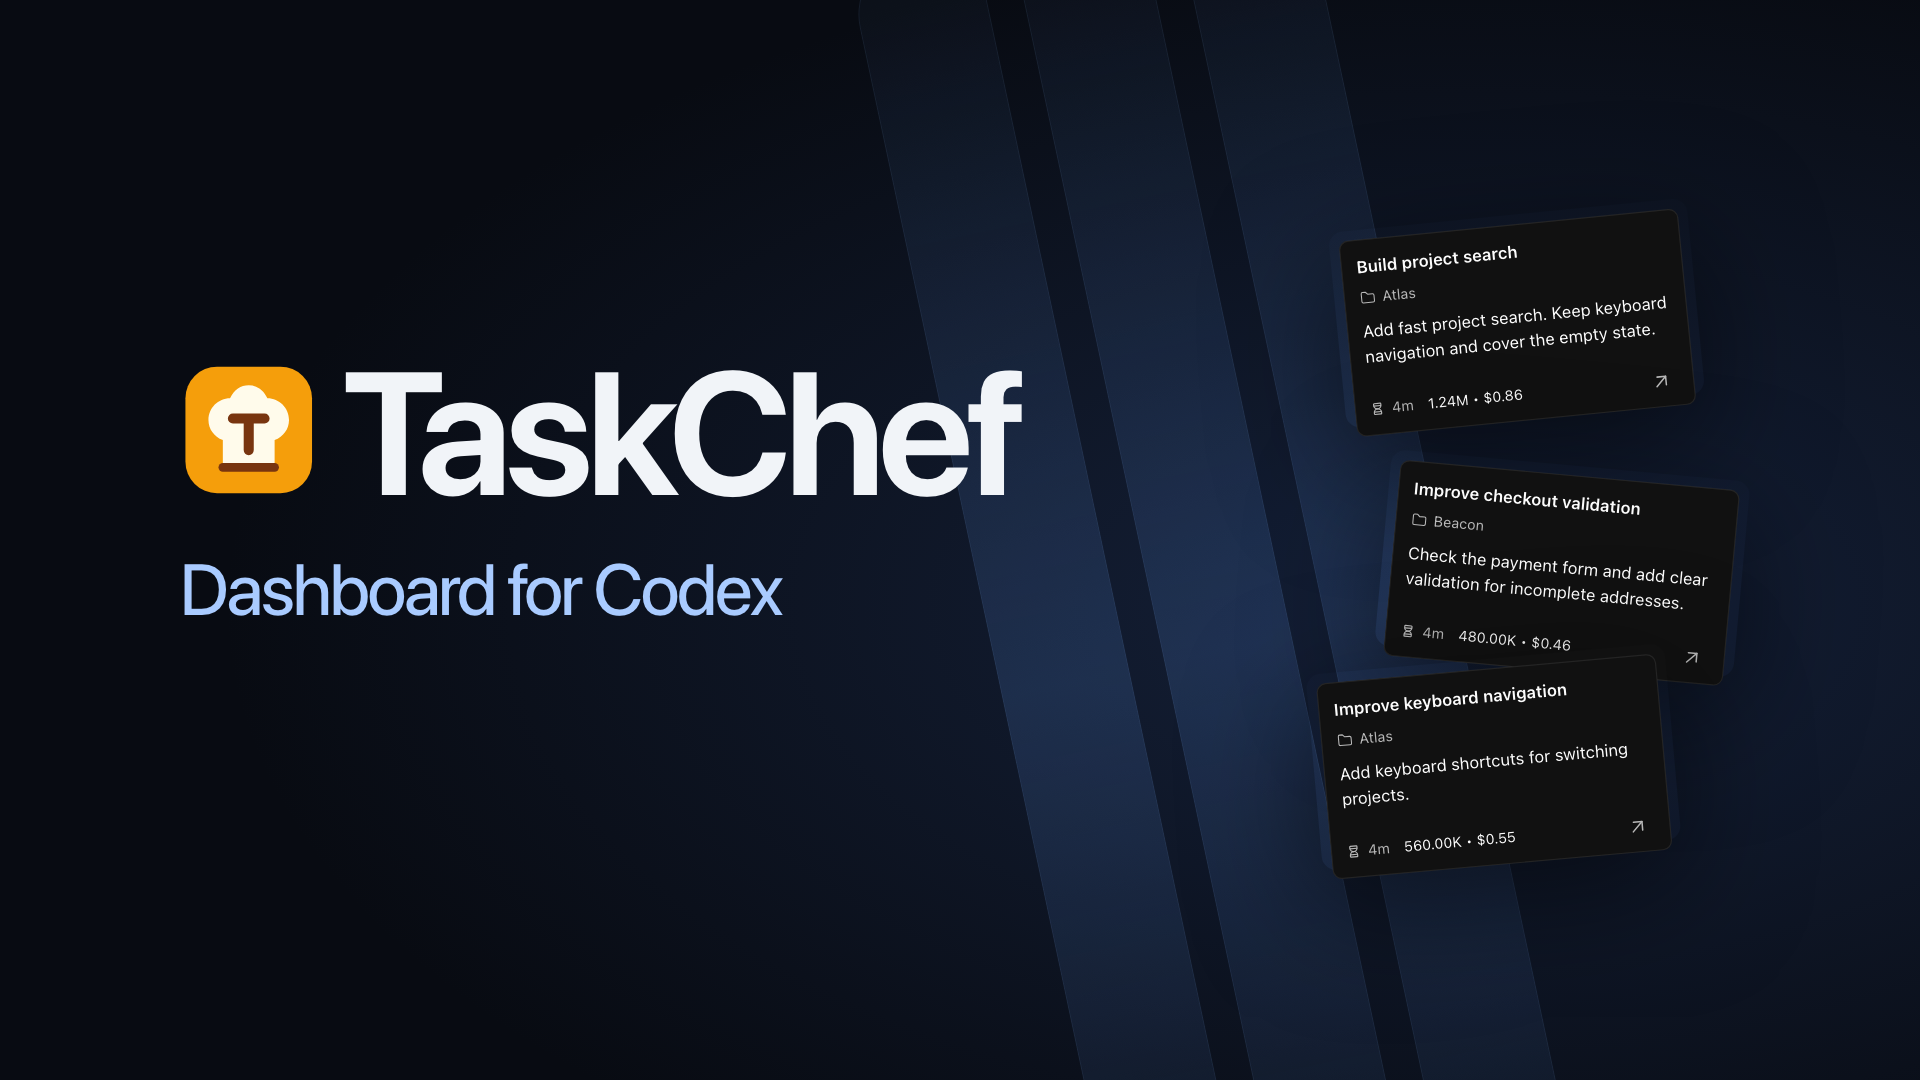
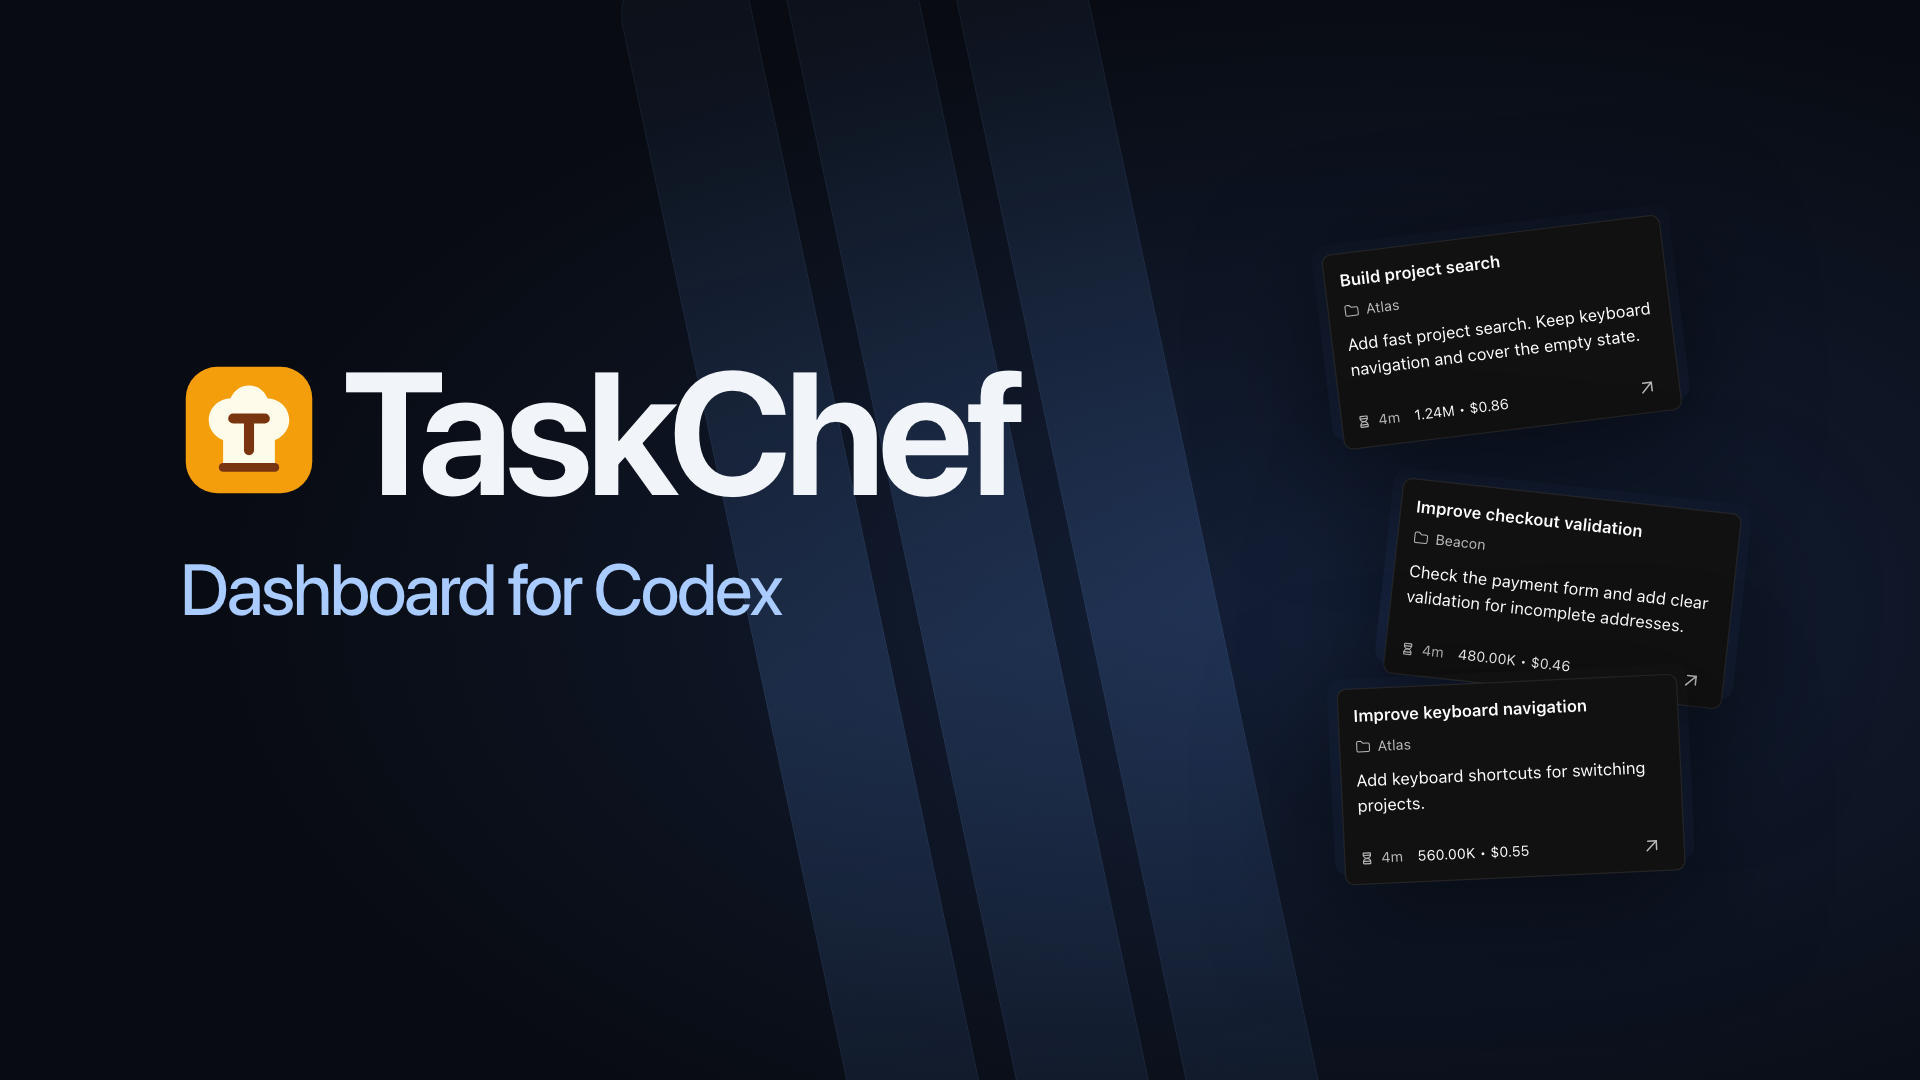
chore(video): show cover immediately and hold chapter titles

Changed region(s): [[0.3438, 0.2139, 0.9062, 0.9167]]

diff --git a/video/OpeningStudy.tsx b/video/OpeningStudy.tsx
@@ -9,14 +9,14 @@ const phrase = 240 / 122;
 const ease = Easing.bezier(.16, 1, .3, 1);
 const clamp = { extrapolateLeft: 'clamp', extrapolateRight: 'clamp' } as const;
 
-function FloatingChats({ time, shot }: { time: number; shot: number }) {
+function FloatingChats({ time }: { time: number }) {
   return <div className="opening-floating-chats" inert>
     {[1, 2, 3].map((id, index) => <div key={id} className={`opening-fragment opening-fragment-${id}`} style={{
       top: 235 + index * 225,
       left: 1280 + (index === 1 ? 70 : 0),
       rotate: `${[-7, 5, -4][index] + Math.sin(time * 1.7 + index) * 1.5}deg`,
-      translate: `${Math.sin(time * 1.2 + index) * 18 + (shot === 0 ? 30 : -25)}px ${Math.cos(time * 1.5 + index) * 12}px`,
-      opacity: interpolate(time, [.15 + index * .12, .5 + index * .12], [0, 1], clamp),
+      translate: `${Math.sin(time * 1.2 + index) * 18 + 30}px ${Math.cos(time * 1.5 + index) * 12}px`,
+      opacity: 1,
     }}><ProductBoard phase="running" /></div>)}
   </div>;
 }
@@ -25,19 +25,18 @@ export function OpeningStudy() {
   const frame = useCurrentFrame();
   const { fps } = useVideoConfig();
   const time = frame / fps;
-  const shot = time < phrase ? 0 : time < phrase * 2 ? 1 : 2;
-  const local = frame - shot * phrase * fps;
-  const boardStart = phrase * 2;
+  const intro = time < phrase;
+  const boardStart = phrase;
   // Title → full board → Running, then one continuous pull-back into Review.
-  const cameraTimes = [boardStart, 4.75, 6.05, 6.65, 7.5, 8.6, 9.1, 9.65, 10.8];
+  const cameraTimes = [boardStart, 4, 4.75, 5.5, 6.05, 6.7, 7.7, 9.4, 10.1, 11.2];
   const cameraEase = { ...clamp, easing: Easing.bezier(.65, 0, .2, 1) };
-  const scale = interpolate(time, cameraTimes, [.62, 1.22, 1.22, 3, 3, .62, .62, 2.4, 2.4], cameraEase);
-  const x = interpolate(time, cameraTimes, [1050, 179, 179, -470, -470, 1050, 1050, -575, -575], cameraEase);
-  const y = interpolate(time, cameraTimes, [320, 240, 240, 30, 30, 320, 320, 80, 80], cameraEase);
-  const review = time >= 9.65;
-  const move = interpolate(time, [9.65, 10.25], [0, 1], { ...clamp, easing: ease });
-  const nextTitle = time >= 8.1;
-  const titleTime = time - (nextTitle ? 8.1 : boardStart);
+  const scale = interpolate(time, cameraTimes, [.62, .62, 1.22, 1.22, 3, 3, .62, .62, 2.4, 2.4], cameraEase);
+  const x = interpolate(time, cameraTimes, [1050, 1050, 179, 179, -470, -470, 1050, 1050, -575, -575], cameraEase);
+  const y = interpolate(time, cameraTimes, [320, 320, 240, 240, 30, 30, 320, 320, 80, 80], cameraEase);
+  const review = time >= 10.1;
+  const move = interpolate(time, [10.1, 10.7], [0, 1], { ...clamp, easing: ease });
+  const nextTitle = time >= 7.45;
+  const titleTime = time - (nextTitle ? 7.45 : boardStart);
   return <AbsoluteFill
     className="film opening-study"
     style={themeVariables(visualTheme('codex', 'dark'), 'dark') as CSSProperties}
@@ -46,28 +45,26 @@ export function OpeningStudy() {
       name="Tech House vibes — Mixkit"
       src={staticFile('tech-house-vibes.mp3')}
       trimBefore={Math.round(1.52 * fps)}
-      durationInFrames={Math.round(10.8 * fps)}
+      durationInFrames={Math.round(11.2 * fps)}
       premountFor={fps}
-      volume={interpolate(frame, [0, .1 * fps, 10.1 * fps, 10.8 * fps], [0, .8, .8, 0], clamp)}
+      volume={interpolate(frame, [0, .1 * fps, 10.5 * fps, 11.2 * fps], [0, .8, .8, 0], clamp)}
     />
     <div className="opening-halo" style={{ translate: `${Math.sin(time * .7) * 90}px ${Math.cos(time * .5) * 35}px`, scale: 1 + Math.sin(time * .8) * .08 }} />
-    {shot !== 0 && <div className="opening-brand"><Img src={staticFile('taskchef-dark.svg')} alt="" />TaskChef <span>Dashboard for Codex</span></div>}
-    {shot < 2 && <>
-      <div className="opening-type" key={shot} style={{ opacity: interpolate(local, [0, .12 * fps, (phrase - .12) * fps, phrase * fps], [0, 1, 1, 0], clamp),
-        translate: `0 ${interpolate(local, [0, .45 * fps], [80, 0], { ...clamp, easing: ease })}px`,
-        scale: interpolate(local, [0, phrase * fps], [1.06, 1], { ...clamp, easing: ease }) }}>
-        {shot === 0 ? <div className="opening-identity"><div><Img src={staticFile('taskchef-dark.svg')} alt="" /><span>TaskChef</span></div><p>Dashboard for Codex</p></div> : <>Every project.<br /><span>In view.</span></>}
+    {!intro && <div className="opening-brand"><Img src={staticFile('taskchef-dark.svg')} alt="" />TaskChef <span>Dashboard for Codex</span></div>}
+    {intro && <>
+      <div className="opening-type" style={{ opacity: interpolate(time, [phrase - .15, phrase], [1, 0], clamp) }}>
+        <div className="opening-identity"><div><Img src={staticFile('taskchef-dark.svg')} alt="" /><span>TaskChef</span></div><p>Dashboard for Codex</p></div>
       </div>
-      <div className="opening-rails" style={{ rotate: `${shot === 0 ? -12 : 12}deg`, translate: `${interpolate(local, [0, phrase * fps], [-240, 160], clamp)}px 0` }}><i /><i /><i /></div>
-      <FloatingChats time={time} shot={shot} />
+      <div className="opening-rails" style={{ rotate: '-12deg', translate: `${interpolate(time, [0, phrase], [-240, 160], clamp)}px 0` }}><i /><i /><i /></div>
+      <FloatingChats time={time} />
     </>}
-    <div className="opening-board-mask" style={{ opacity: shot === 2 ? 1 : 0 }}>
-      <div className="opening-board-stage" inert style={{ left: x, top: y - 220, scale, rotate: `${interpolate(time, [boardStart, 4.75], [-4, 0], { ...clamp, easing: ease })}deg` }}>
+    <div className="opening-board-mask" style={{ opacity: !intro ? 1 : 0 }}>
+      <div className="opening-board-stage" inert style={{ left: x, top: y - 220, scale, rotate: `${interpolate(time, [4, 4.75], [-4, 0], { ...clamp, easing: ease })}deg` }}>
         <ProductBoard phase={review ? 'review' : 'running'} moveProgress={review ? move : undefined} />
       </div>
     </div>
-    {shot === 2 && <div className="opening-section-title" style={{ opacity: interpolate(titleTime, [0, .15, nextTitle ? .65 : .55, 1], [0, 1, 1, 0], clamp),
-      translate: `${interpolate(titleTime, [0, .4, nextTitle ? .65 : .55, 1], [40, 0, 0, -110], { ...clamp, easing: ease })}px 0` }}>
+    {!intro && <div className="opening-section-title" style={{ opacity: interpolate(titleTime, [0, .15, nextTitle ? 1.95 : 2.03, nextTitle ? 2.3 : 2.4], [0, 1, 1, 0], clamp),
+      translate: `${interpolate(titleTime, [0, .4, nextTitle ? 1.95 : 2.03, nextTitle ? 2.3 : 2.4], [40, 0, 0, -110], { ...clamp, easing: ease })}px 0` }}>
       {nextTitle ? <>Ready for<br /><span>review.</span></> : <>Keep every<br />project<br /><span>in view.</span></>}
     </div>}
   </AbsoluteFill>;

diff --git a/video/index.tsx b/video/index.tsx
@@ -20,7 +20,7 @@ for (const [key, value] of Object.entries(themeVariables(visualTheme('codex', 'd
 }
 
 registerRoot(() => <>
-  <Composition id="TaskChefOpening" component={OpeningStudy} durationInFrames={324} fps={30} width={1920} height={1080} />
+  <Composition id="TaskChefOpening" component={OpeningStudy} durationInFrames={336} fps={30} width={1920} height={1080} />
   <Composition id="TaskChefLaunch" component={Launch} durationInFrames={1350} fps={30} width={1920} height={1080} />
   <Folder name="Scenes">
     <Composition id="ParallelProjects" component={Opening} durationInFrames={180} fps={30} width={1920} height={1080} />

diff --git a/docs/launch/opening-study.md b/docs/launch/opening-study.md
@@ -1,6 +1,6 @@
 # Opening study
 
-Review this 10.8-second composition before rebuilding the full launch film.
+Review this 11.2-second composition before rebuilding the full launch film.
 
 ```sh
 npm ci
@@ -19,13 +19,13 @@ continues to export the full film. This review deliverable is the Studio preview
 
 | Time | Picture |
 | --- | --- |
-| 0–1.97s | Large logo and “TaskChef — Dashboard for Codex.” Three native Running cards float on the right. |
-| 1.97–3.93s | “Every project. In view.” A short statement of the board’s value; no example project-name tags. |
-| 3.93–4.93s | Large “Keep every project in view” on the left, board on the right. The title exits while the board grows into full view. |
-| 4.75–6.05s | Full board, including Scheduled and all nine chats. |
-| 6.05–7.50s | Push into a tighter close-up centered on Running, then briefly hold. |
-| 7.50–8.60s | One continuous pull-back into the next chapter; no intermediate full-board stop. Large “Ready for review” enters at 8.10s as the board moves to the right. |
-| 9.10–10.80s | Move into the review columns; the featured chat finishes and moves into Waiting for review. |
+| 0–1.97s | Logo, TaskChef, Dashboard for Codex and native cards are visible from frame zero. No fade-in. |
+| 1.97–4.37s | Large “Keep every project in view” beside the board; fully readable for about 1.9 seconds before exiting. No duplicate slogan screen. |
+| 4.00–5.50s | Move into the full board, including Scheduled and nine chats. |
+| 5.50–6.70s | Tight close-up centered on Running. |
+| 6.70–7.70s | One continuous pull-back into the right-side next-title pose. |
+| 7.45–9.75s | Large “Ready for review”; fully readable for about 1.8 seconds before exiting into the next zoom. |
+| 9.40–11.20s | Zoom into review; the featured card moves into Waiting for review. |
 
 All data is synthetic. Native `TaskBoard`, project picker, controls, mark,
 theme and card styling come from product code. Film typography and camera
@@ -33,7 +33,7 @@ motion are separate from product behavior. No screen recording is used.
 
 ## Pacing
 
-The opening identity and slogan follow four-beat phrases at about 122 BPM.
+The opening identity follows a four-beat phrase at about 122 BPM.
 Camera and title transitions then overlap to keep the edit moving. This is
 an editorial choice, not a universal industry standard.
 Google recommends early action, tight framing, large text and faster pacing
